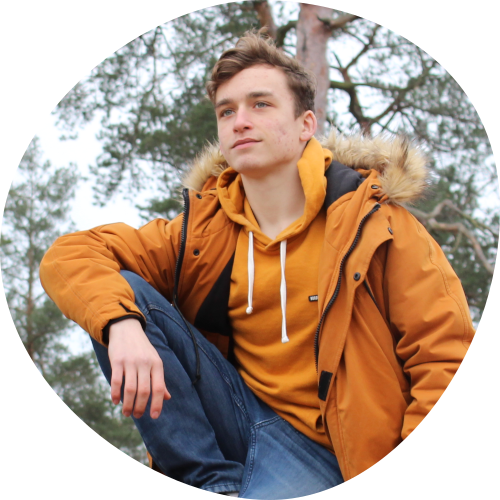
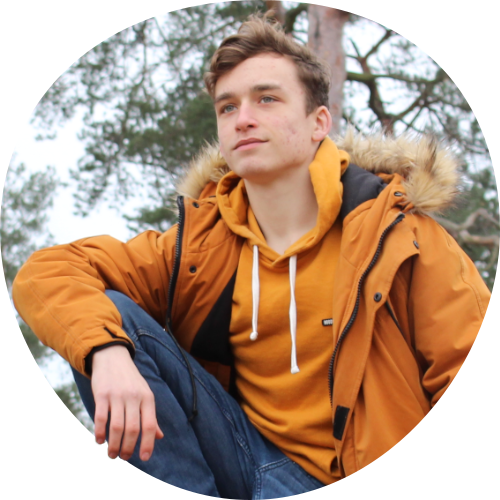
Finish my new portfolio design

diff --git a/index.html b/index.html
@@ -1,6 +1,7 @@
 <!-- TODO
-- IE8+, Chrome, Firefox, Opera compatibility
-- Refactoring
+    - Old browsers compatibility
+    - Refactoring
+    - 
 -->
 
 <!DOCTYPE html>
@@ -43,7 +44,7 @@
                     </ul>
                 </li><li>
                     <button class="menu-dropdown__btn w-100">
-                        <a href="mailto:barsukov.m23@gmail.com" class="text--white">Contact Me</a>
+                        <a href="mailto:barsukov.m23@gmail.com" class="text-white">Contact Me</a>
                     </button>
                 </li>
                 </li>
@@ -67,7 +68,7 @@
             </section>
         </section>
         <aside class="side-profile m-auto">
-            <img src="/images/profile-3.png" alt="Here should be a photo of me." class="d-block w-100 m-auto">
+            <img src="/images/profile.png" alt="Here should be a photo of me." class="d-block w-100 m-auto">
             <h2 class="center">
                 <span class="side-profile__name d-block">Michael</span>Barsukov
             </h2>
@@ -78,15 +79,13 @@
             </div>
         </aside>
     </main>
-    <footer class="footer d-block w-100 center bg-grey">
-        <div class="footer-wrapper m-auto">
-            <ul class="footer__langs">
-                <li><a href="#">uk</a></li>
-                <li><a href="/pages/index-ua.html">ua</a></li>
-                <li><a href="/pages/index-ru.html">ru</a></li>
-            </ul>
-            <p class="footer__copy">&copy; Michael Barsukov 2021</p>
-        </div>
+    <footer class="footer d-block clear w-100 m-auto center bg-grey">
+        <ul class="footer__langs bg-grey">
+            <li><a href="#">uk</a></li>
+            <li><a href="/pages/index-ua.html">ua</a></li>
+            <li><a href="/pages/index-ru.html">ru</a></li>
+        </ul>
+        <p class="footer__copy">&copy; Michael Barsukov 2021</p>
     </footer>
     <div class="night-mode"></div>
 </body>

diff --git a/css/main.css b/css/main.css
@@ -22,7 +22,7 @@ Table of Contents:
     --page-grey: #EEE;
 }
 
-.text--white {
+.text-white {
     color: #fff;
 }
 
@@ -260,16 +260,12 @@ body {
 /* ========= ANIMATION ========= */
 
 @keyframes waving {
-    0% {
+    0%, 100% {
         transform: none;
     }
 
     50% {
         transform: translate(5px, -2px) rotate(20deg);
-    }
-
-    100% {
-        transform: none;
     }
 }
 
@@ -289,21 +285,15 @@ body {
         max-width: 1200px;
     }
 
-    .main {
-        padding-bottom: 50px;
-        height: 100%;
-    }
-
     .content-wrapper {
         float: left;
         max-width: 950px;
     }
 
     .side-profile {
-        display: inline-block;
+        float: right;
         padding: 0 30px;
         width: 30%;
-        float: right;
     }
 
     .side-profile h2 {
@@ -314,24 +304,21 @@ body {
         margin: 0;
     }
 
-    .content {
-        background: #FFF;
+    .content, .footer {
+        background: none;
     }
 
     .footer {
-        margin-top: -205px;
-        height: 100px;
-        width: 100%;
-    }
-
-    .footer-wrapper {
-        max-width: 1200px;
+        height: 160px;
+        padding: 30px;
     }
 
     .footer__langs  {
+        border-radius: 30px;
         float: left;
+        margin-right: 20%;
         padding: 15px 0;
-        width: 70%;
+        width: 50%;
     }
 
     .footer__copy {
